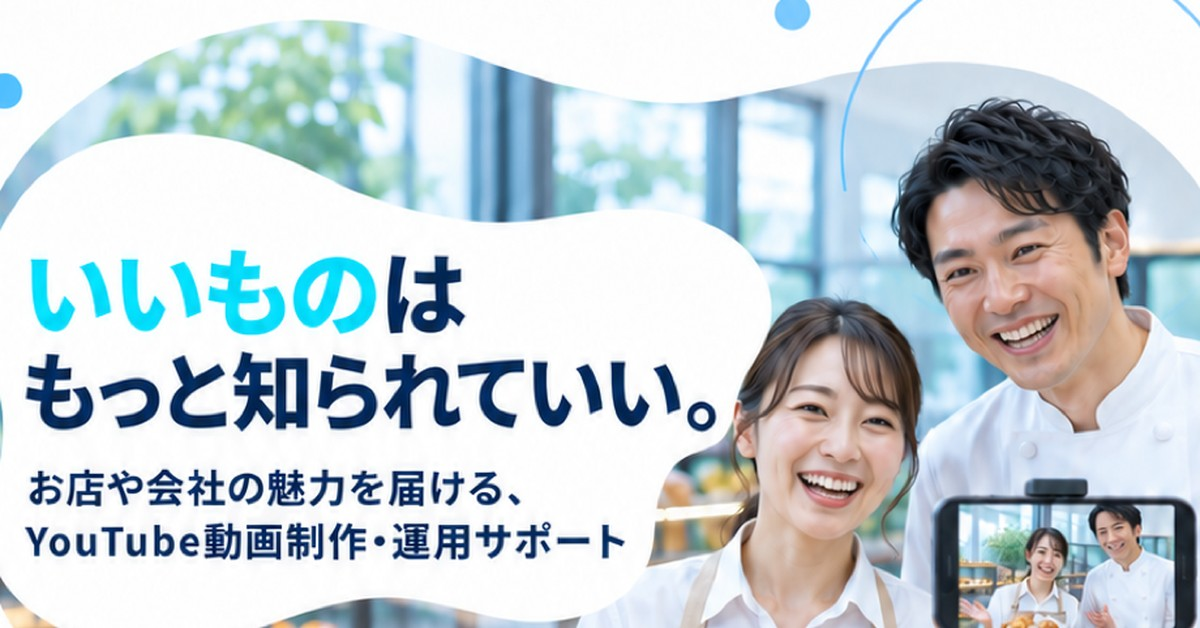
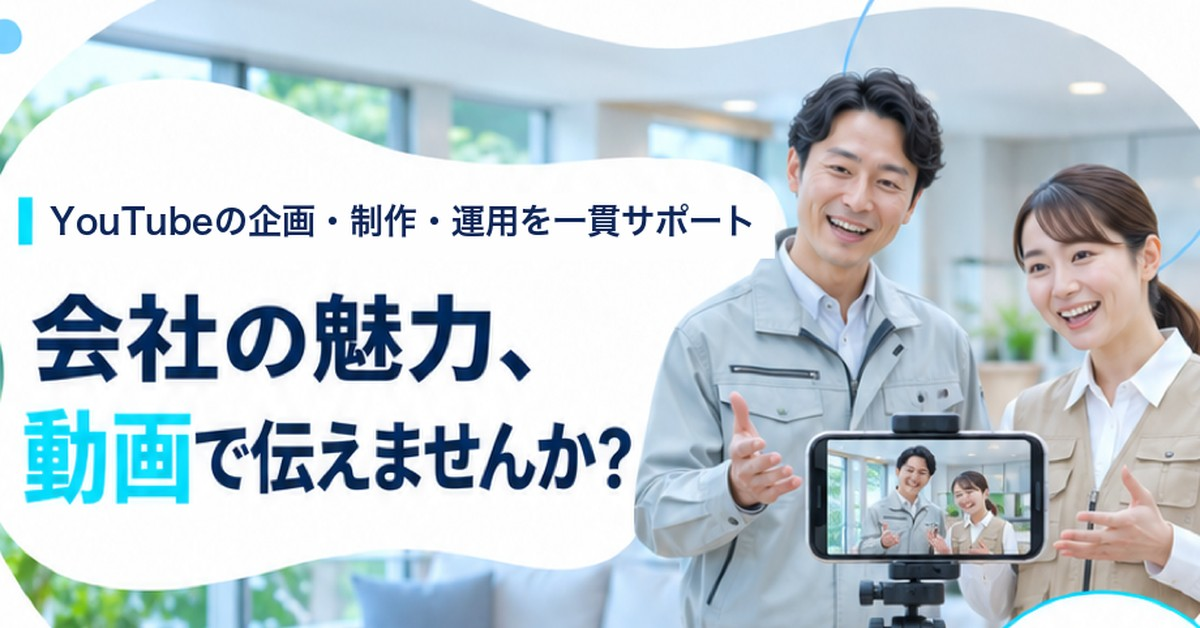
FV：工務店の男女の写真に差し替え、小見出しを「YouTubeの企画・制作・運用を一貫サポート」に
- 見出しは「会社の魅力、動画で伝えませんか？」
- タイトル・h1・og:title・画像のaltを合わせる
- SNS用のサムネイル画像（og.jpg）を新しいFVから作り直し

diff --git a/index.html b/index.html
@@ -3,9 +3,9 @@
 <head>
 <meta charset="utf-8">
 <meta name="viewport" content="width=device-width, initial-scale=1">
-<title>RunMate｜いいものはもっと知られていい。</title>
+<title>RunMate｜会社の魅力、動画で伝えませんか？</title>
 <meta name="description" content="事業者のための YouTube動画制作・運用代行。集客と採用に、YouTubeという新しい窓口を。動画づくりから投稿まで、まるごと代行します。撮影はスマホでOK。公式LINEで無料相談。">
-<meta property="og:title" content="RunMate｜いいものはもっと知られていい。">
+<meta property="og:title" content="RunMate｜会社の魅力、動画で伝えませんか？">
 <meta property="og:description" content="集客と採用に、YouTubeという新しい窓口を。動画づくりから投稿まで、まるごと代行します。公式LINEで無料相談。">
 <meta property="og:type" content="website">
 <meta property="og:image" content="https://aaa202630.github.io/runmate-lp/images/og.jpg">
@@ -17,8 +17,8 @@
 <main class="lp">
 
 <section class="sec fv">
-  <h1 class="sr">いいものはもっと知られていい。</h1>
-  <img src="images/h-01-fv-v3.webp" width="1024" height="1792" alt="RunMate。いいものはもっと知られていい。お店や会社の魅力を届ける、YouTube動画制作・運用サポート。認知を広げる、商品が売れる、採用につながる。相談無料。動画の制作本数1,000本以上、30社以上の事業者をご支援。">
+  <h1 class="sr">会社の魅力、動画で伝えませんか？</h1>
+  <img src="images/h-01-fv-v4.webp" width="1024" height="1792" alt="RunMate。YouTubeの企画・制作・運用を一貫サポート。会社の魅力、動画で伝えませんか？認知を広げる、商品が売れる、採用につながる。相談無料。動画の制作本数1,000本以上、30社以上の事業者をご支援。">
   <a class="imgbtn" href="https://line.me/R/ti/p/@417zbasn" target="_blank" rel="noopener" style="left:5.9%;top:74.1%;width:88.2%"><small>初月35%OFF</small>公式LINEで無料相談 →</a>
 </section>
 <section class="sec">
